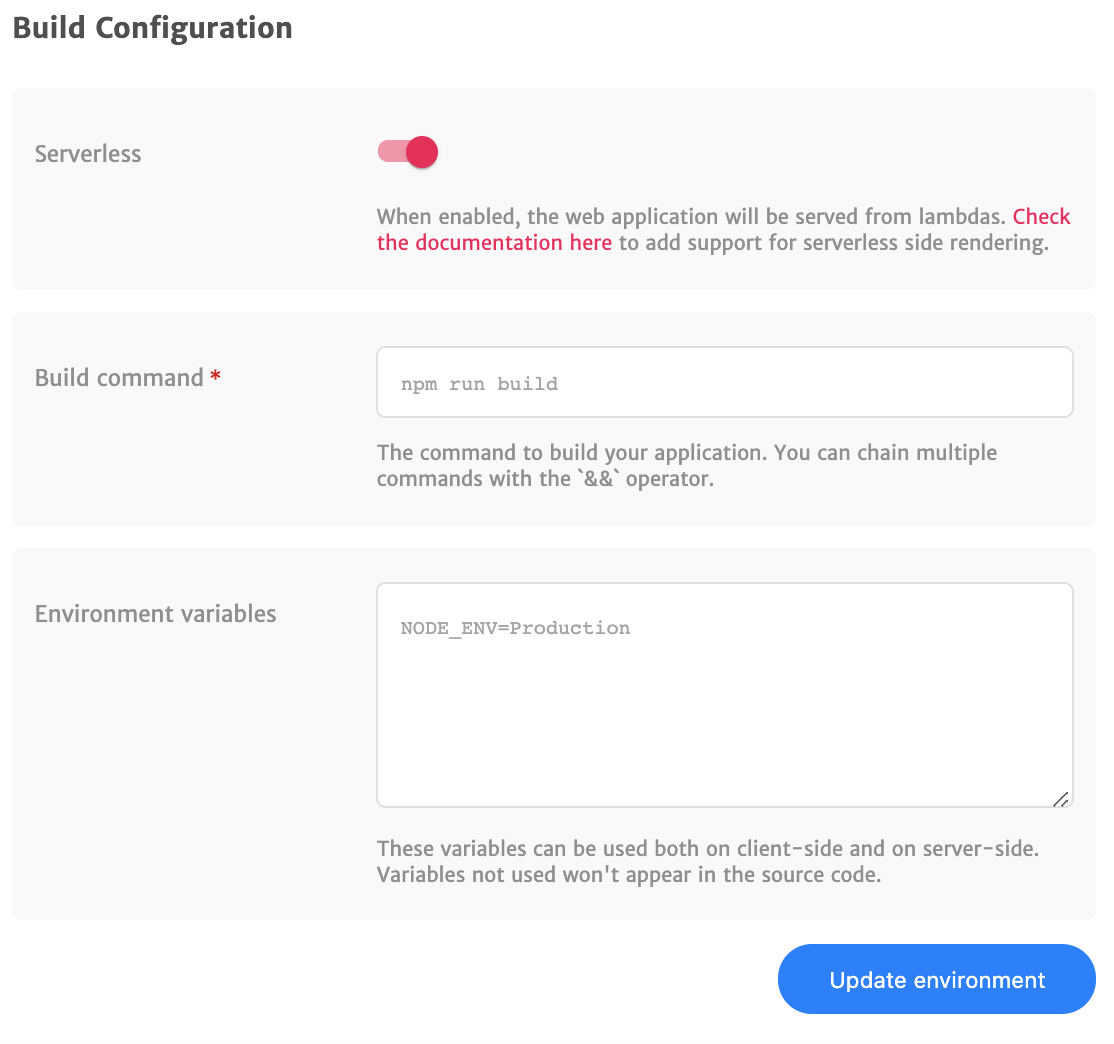
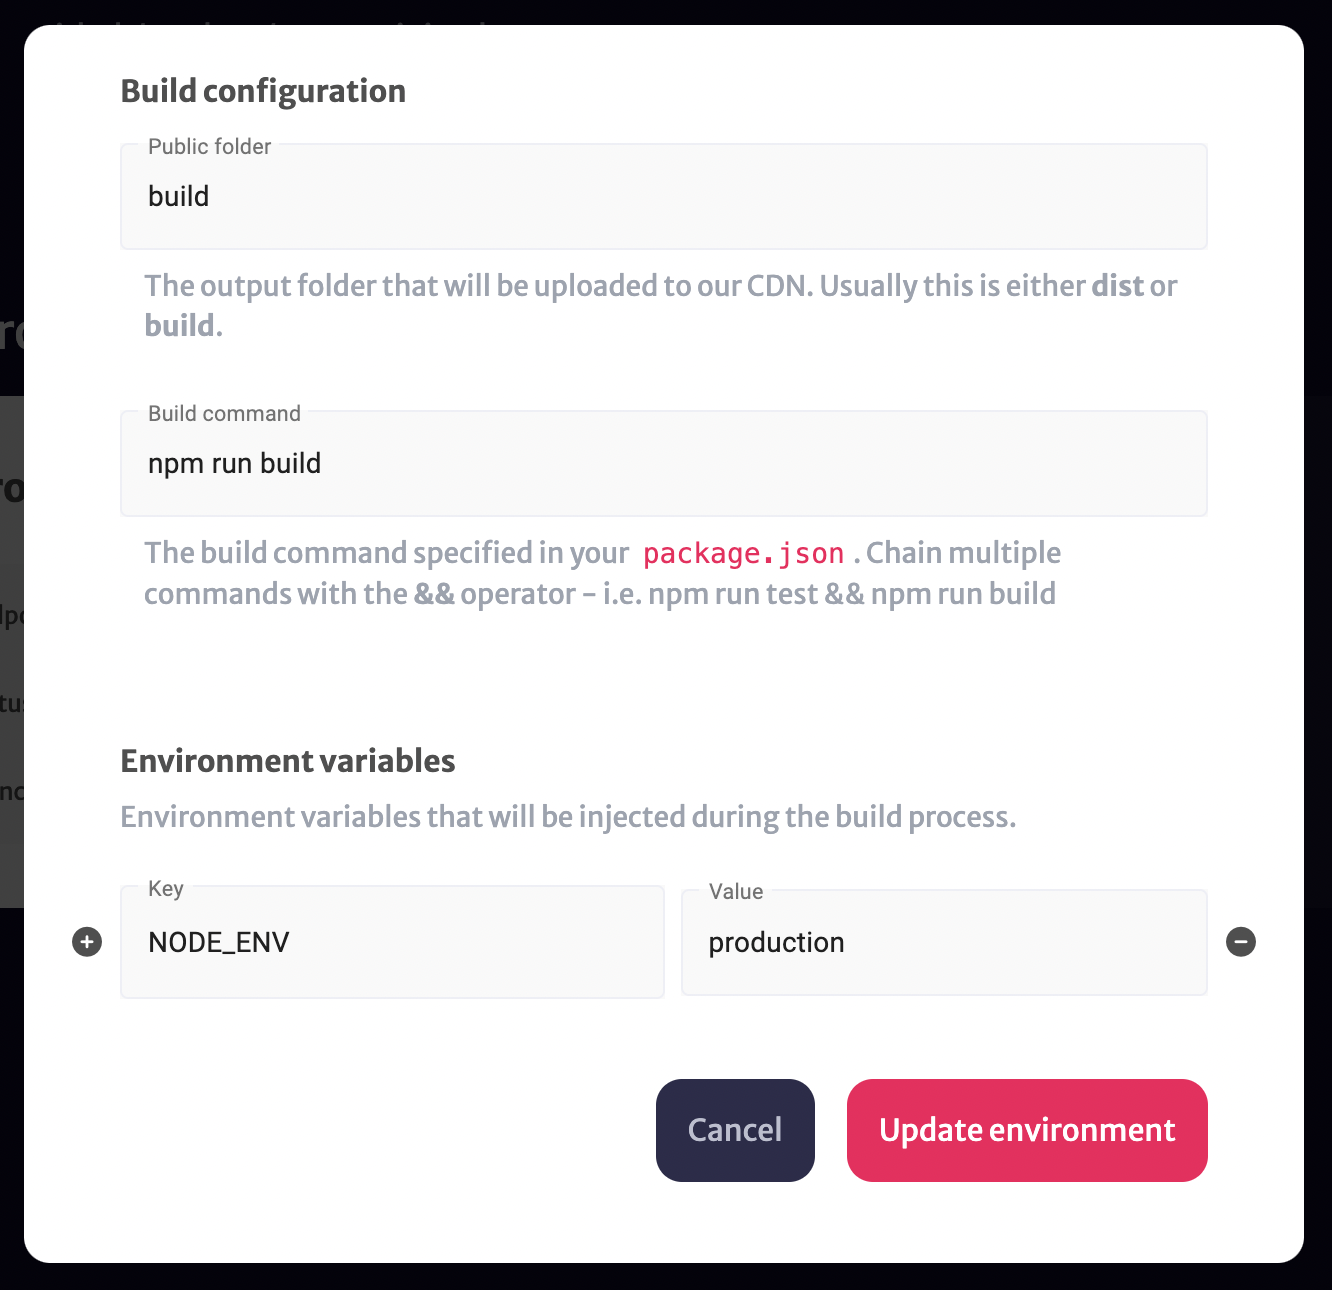
feat: deprecate serverless toggle

diff --git a/content/docs/deployments--configuration.md b/content/docs/deployments--configuration.md
@@ -27,7 +27,7 @@ Each [environment](/docs/features/multiple-environments) in Stormkit has a confi
 
 <section>
 
-The second section is the build configuration, which will be used to build and deploy your application. Stormkit has a built-in support for the following frameworks: <code>Nuxt.js</code>, <code>Next.js</code>, <code>Angular</code> and <code>Nest.js</code>. This allows you to toggle Serverless or Static mode with a switch under your Environment configuration. We'll understand your <code>publish</code> folder directly from the framework configuration file.
+The second section is the build configuration, which will be used to build and deploy your application. Stormkit has a built-in support for the following frameworks: <code>Nuxt.js</code>, <code>Next.js</code>, <code>Angular</code> and <code>Nest.js</code>. We'll understand your <code>publish</code> folder directly from the framework configuration file.
 
 <sk-article-image 
     src="docs/deployments/env-framework-build-config.png" 

diff --git a/content/blog/whats-new.md b/content/blog/whats-new.md
@@ -8,6 +8,11 @@ Follow the latest developments on Stormkit.
 
 ## April 18th, 2022
 
+The Serverless toggle has been deprecated. Stormkit now understands whether your application is serverless
+or not from the artifacts.
+
+## April 18th, 2022
+
 We have removed the limit on the number of applications you can host on Stormkit based on your tier. It's
 all unlimited now.
 
